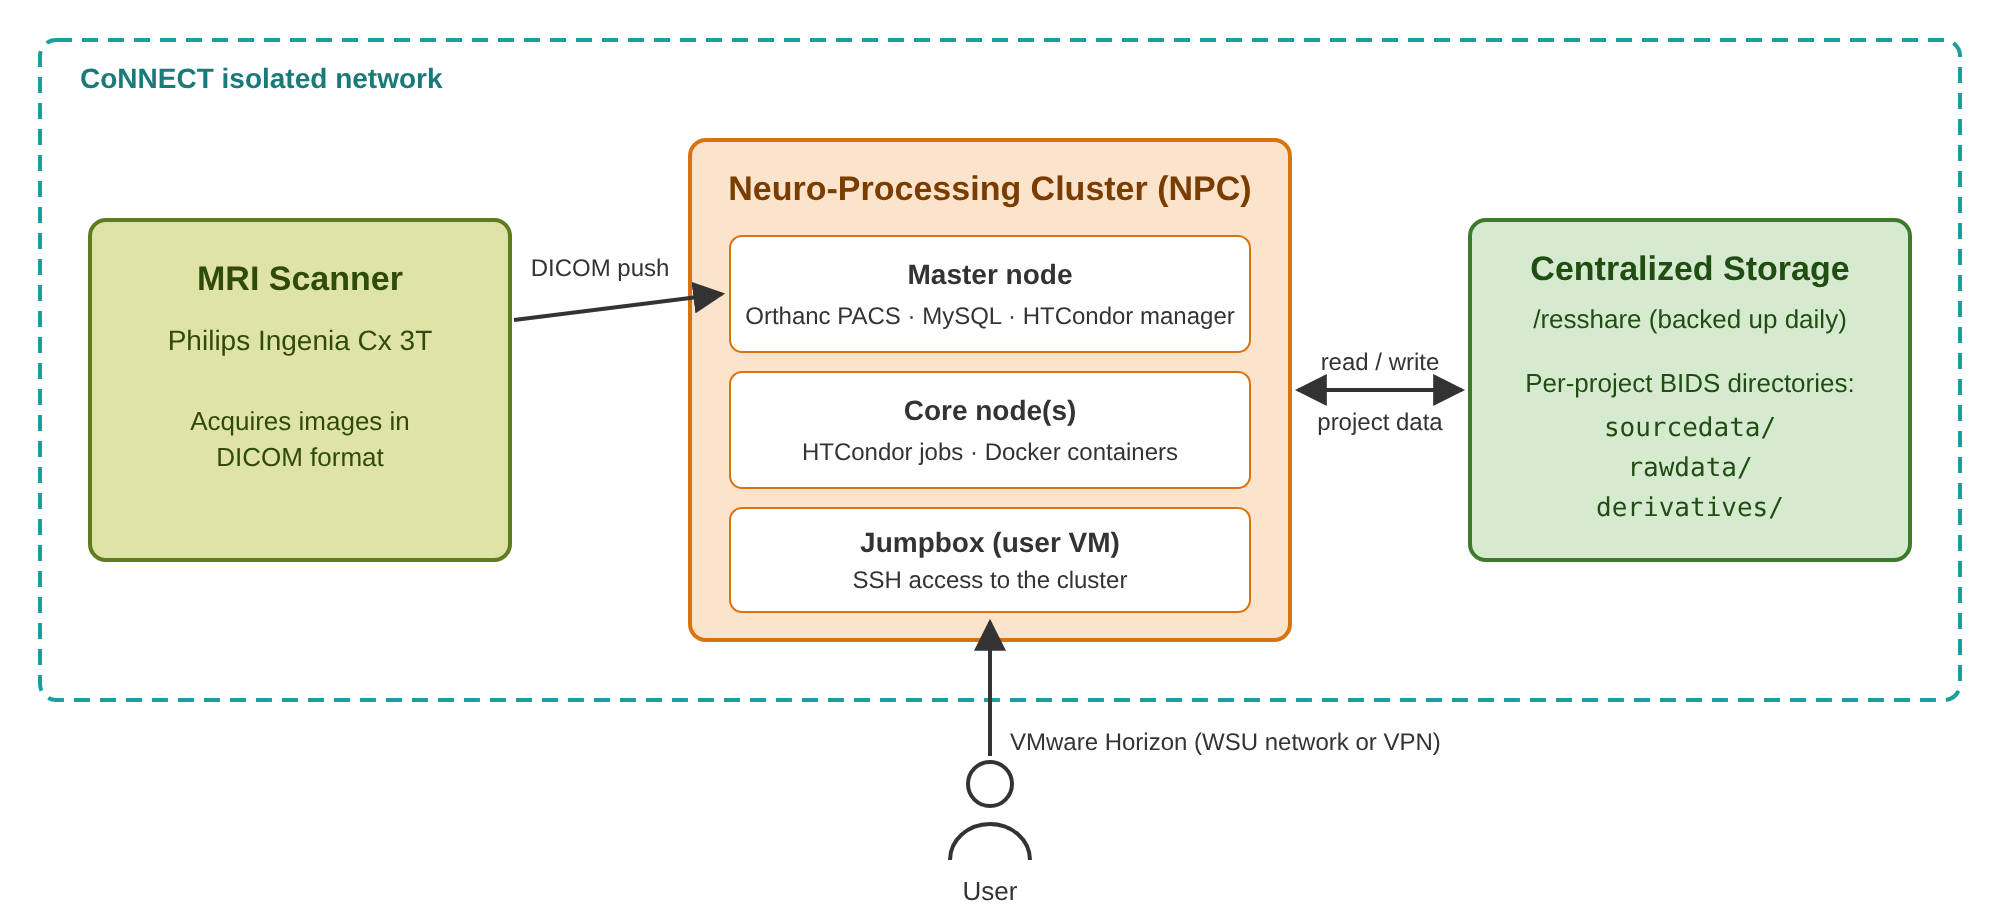
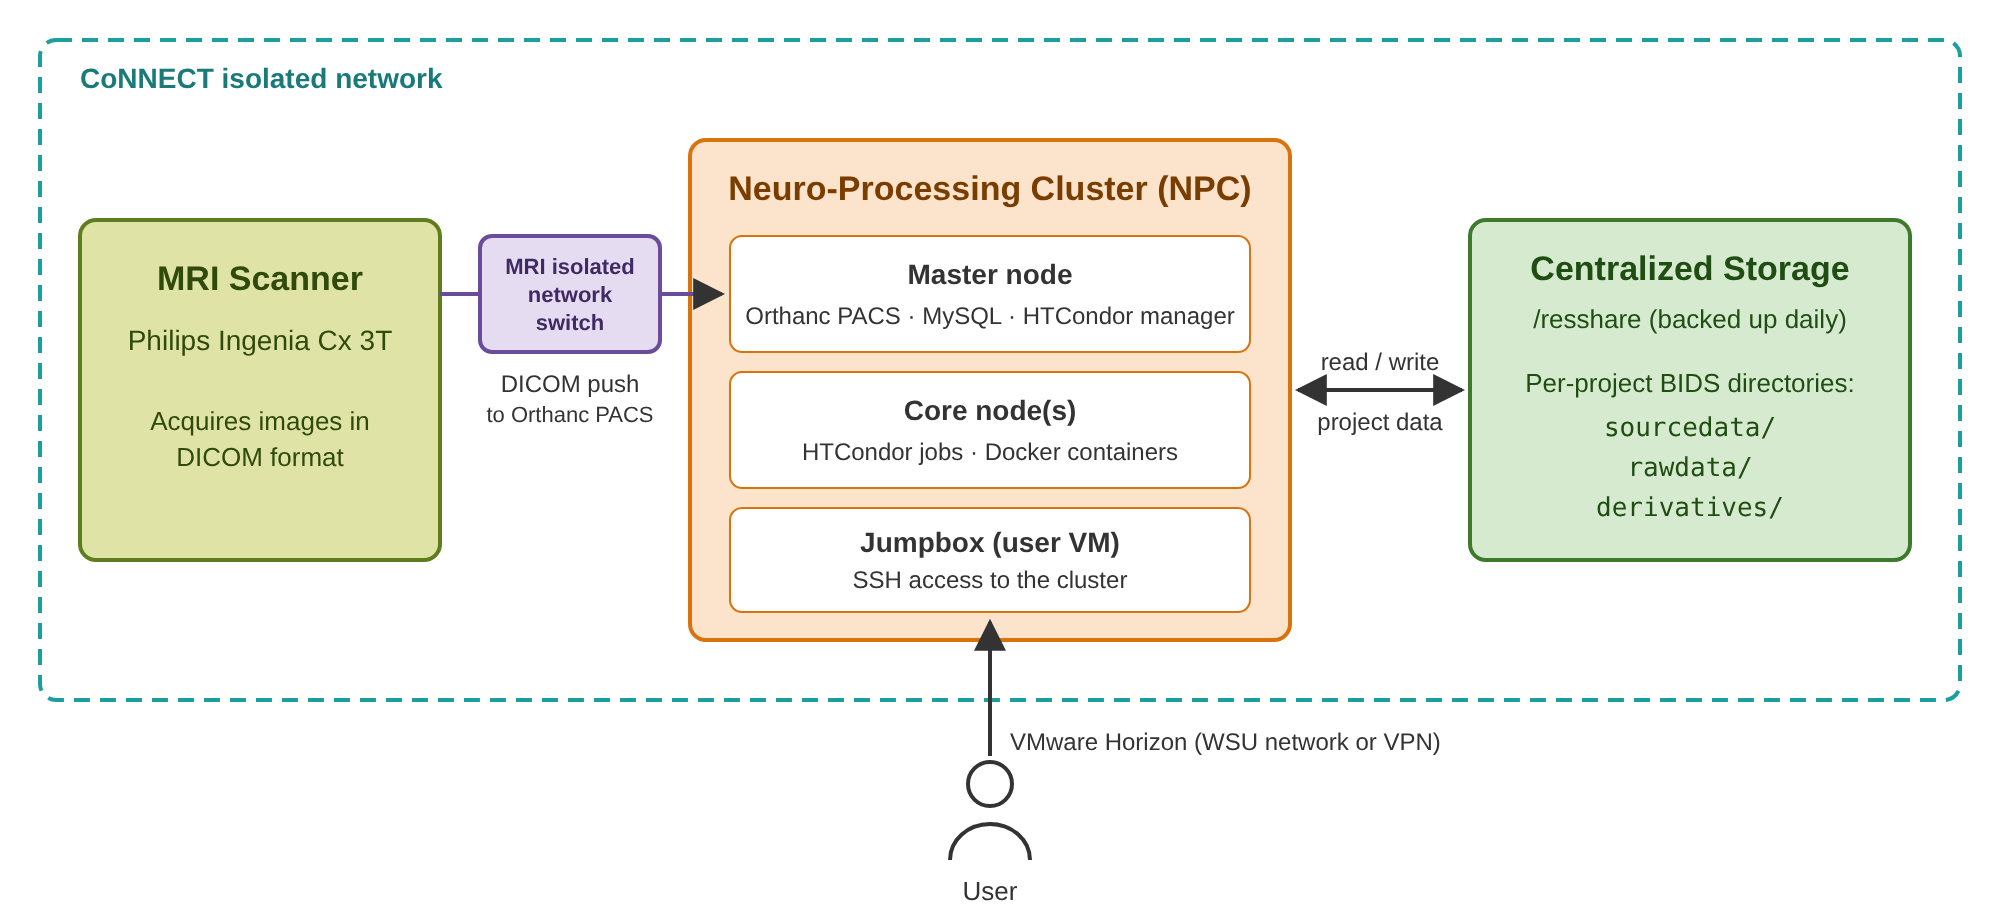
Show the MRI isolated network switch in the systems overview figure
The MRI scanner and the NPC master node share the scanner's isolated
network switch; DICOM images reach Orthanc through it.

Claude-Session: https://claude.ai/code/session_01RuKq8sGMeBb23TQgV9bpw7

Changed region(s): [[0.031, 0.213, 0.372, 0.6087], [0.093, 0.4261, 0.186, 0.5174]]

diff --git a/docs/source/systems_overview/index.rst b/docs/source/systems_overview/index.rst
@@ -14,8 +14,8 @@ The CoNNECT MRI facility consists of several components described below.
    :align: center
    :width: 90%
 
-   Overview of the CoNNECT systems. The MRI scanner pushes DICOM images to the Orthanc PACS on the
-   :term:`NPC`, which stores project data in BIDS directories on centralized storage. Users reach the NPC
+   Overview of the CoNNECT systems. The MRI scanner and the NPC master node share the MRI scanner's isolated
+   network switch, over which the scanner pushes DICOM images to the Orthanc PACS on the master node. The :term:`NPC` stores project data in BIDS directories on centralized storage. Users reach the NPC
    through their :term:`jumpbox`.
 
 .. include:: mri.rst
